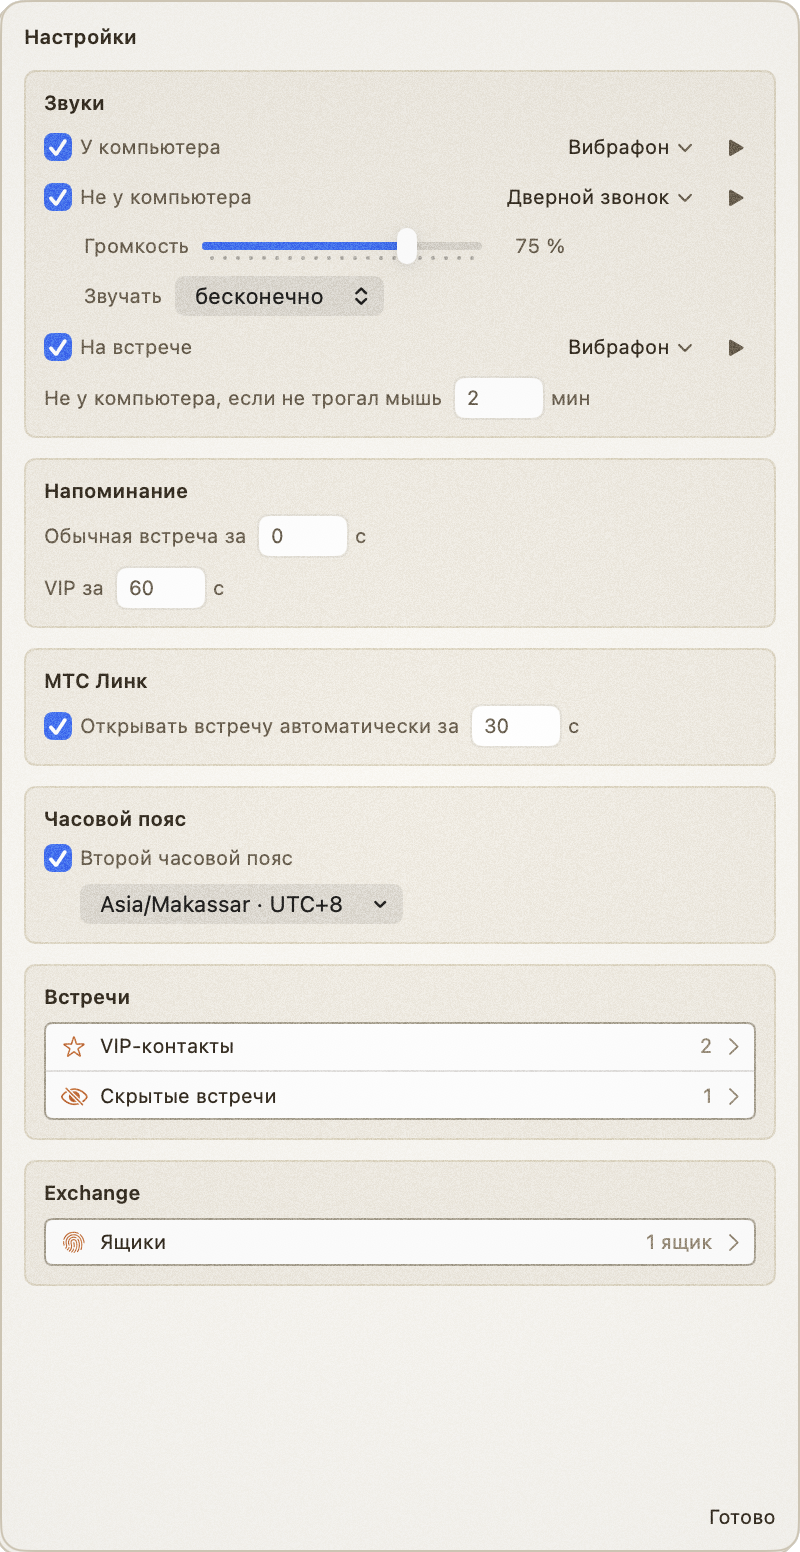
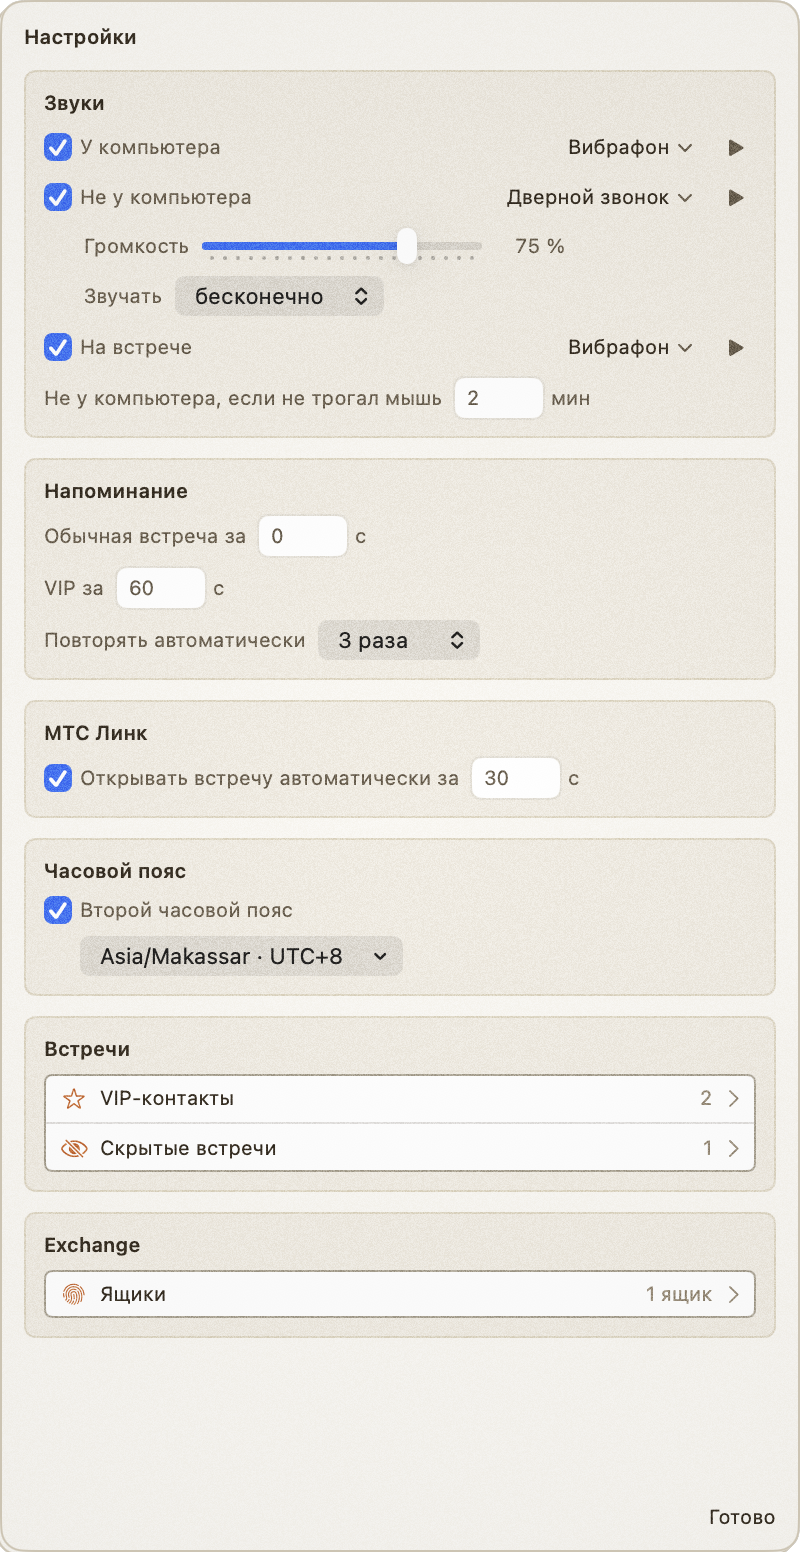
Reminder: a never-snoozed reminder still expires at the 10th minute
So Butler launched or woken mid-meeting doesn't ring about it. Once
snoozed, the repeats decide. Settings screenshot shows the new option.

Claude-Session: https://claude.ai/code/session_01SW6W8L4xT8vVKYtJVuyN73

Changed region(s): [[0.0312, 0.4021, 0.9688, 0.866]]

diff --git a/Sources/Butler/Reminders.swift b/Sources/Butler/Reminders.swift
@@ -31,22 +31,28 @@ struct Reminders {
     /// «ОК» выключает будильник: напоминание больше не звенит, опоздание не показывается.
     var acknowledged: Set<String> = []
 
+    /// Напоминание не выключено. Ещё ни разу не отложенное живёт до 10-й минуты встречи: Butler, запущенный или
+    /// разбуженный посреди встречи, о ней не звенит. Отложенным дальше правят повторы.
+    private func alive(_ m: Meeting, now: Date) -> Bool {
+        !acknowledged.contains(m.reminderKey) && (quietUntil[m.reminderKey] != nil || now < m.start + 600)
+    }
+
     /// Встречи, о которых напоминание звенит прямо сейчас.
     func reminding(_ meetings: [Meeting], now: Date, state: State, config: Config) -> [Meeting] {
         meetings
             .filter { m in
-                !m.isAllDay && !isSettled(m, state) && !acknowledged.contains(m.reminderKey)
-                    && remindAt(m, config: config) <= now && now < m.end
+                !m.isAllDay && !isSettled(m, state)
+                    && remindAt(m, config: config) <= now && now < m.end && alive(m, now: now)
                     && quietUntil[m.reminderKey].map { $0 <= now } ?? true
             }
             .sorted { $0.start < $1.start }
     }
 
-    /// Встречи, на которые пользователь опаздывает: уже идут, решения нет, напоминание не выключено.
+    /// Встречи, на которые пользователь опаздывает: уже идут, решения нет, напоминание не выключено и не истекло.
     func late(_ meetings: [Meeting], now: Date, state: State) -> [Meeting] {
         meetings
             .filter { m in
-                !m.isAllDay && !isSettled(m, state) && !acknowledged.contains(m.reminderKey) && m.start <= now && now < m.end
+                !m.isAllDay && !isSettled(m, state) && m.start <= now && now < m.end && alive(m, now: now)
             }
             .sorted { $0.start < $1.start }
     }

diff --git a/Tests/Reminders.swift b/Tests/Reminders.swift
@@ -38,6 +38,13 @@ private func ids(_ r: Reminders, _ ms: [Meeting], at now: Date, state s: State =
     #expect(ids(Reminders(), m, at: t0 - 21, config: config(offset: 20)).isEmpty)
 }
 
+@Test func neverSnoozedReminderExpiresTenMinutesAfterStart() {
+    let m = [meeting("a", minutes: 60)]
+    #expect(ids(Reminders(), m, at: t0 + 599) == ["a"])
+    #expect(ids(Reminders(), m, at: t0 + 600).isEmpty)
+    #expect(Reminders().late(m, now: t0 + 600, state: State()).isEmpty)
+}
+
 @Test func unansweredReminderRepeatsThenTurnsOffLikeOK() {
     let m = [meeting("a", minutes: 60)]
     var r = Reminders()
